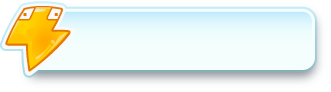
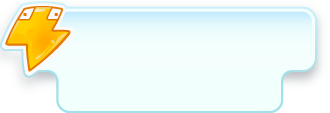
New energy update

Changed region(s): [[0.0, 0.0217, 0.9697, 1.0]]

diff --git a/Assets/QuackUp/Scripts/Panel/Global/Energy/EnergyBarView.cs b/Assets/QuackUp/Scripts/Panel/Global/Energy/EnergyBarView.cs
@@ -12,6 +12,7 @@ namespace FitMe.Panel
     {
         [SerializeField] private Slider energyBar;
         [SerializeField] private RectMask2D energyMask;
+        [SerializeField] private Image infiniteImage;
         [SerializeField] private TMP_Text energyText;
         [SerializeField] private TMP_Text untilNextRechargeText;
         [SerializeField] private Button watchAdButton;
@@ -70,9 +71,11 @@ namespace FitMe.Panel
 
         private void OnInfiniteEnergyChanged(bool infinite)
         {
+            infiniteImage.gameObject.SetActive(infinite);
+            energyMask.gameObject.SetActive(!infinite);
             if (infinite)
             {
-                untilNextRechargeText.text = string.Empty;
+                untilNextRechargeText.text = "Infinite";
                 energyText.text = "Infinite";
                 energyBar.value = 1f;
                 energyMask.padding = Vector4.zero;
@@ -109,7 +112,7 @@ namespace FitMe.Panel
         {
             if (_viewModel.InfiniteEnergy.CurrentValue)
             {
-                untilNextRechargeText.text = string.Empty;
+                untilNextRechargeText.text = "Infinite";
                 return;
             }
             if (_viewModel.CurrentEnergy.CurrentValue >= _viewModel.Config.MaxEnergy)
@@ -119,7 +122,7 @@ namespace FitMe.Panel
             }
             //round up to the nearest second for display purposes
             var roundedTime = TimeSpan.FromSeconds(Mathf.Ceil((float)time.TotalSeconds));
-            untilNextRechargeText.text = $"Next In {roundedTime:mm\\:ss}";
+            untilNextRechargeText.text = $"{roundedTime:mm\\:ss}";
         }
     }
 }
